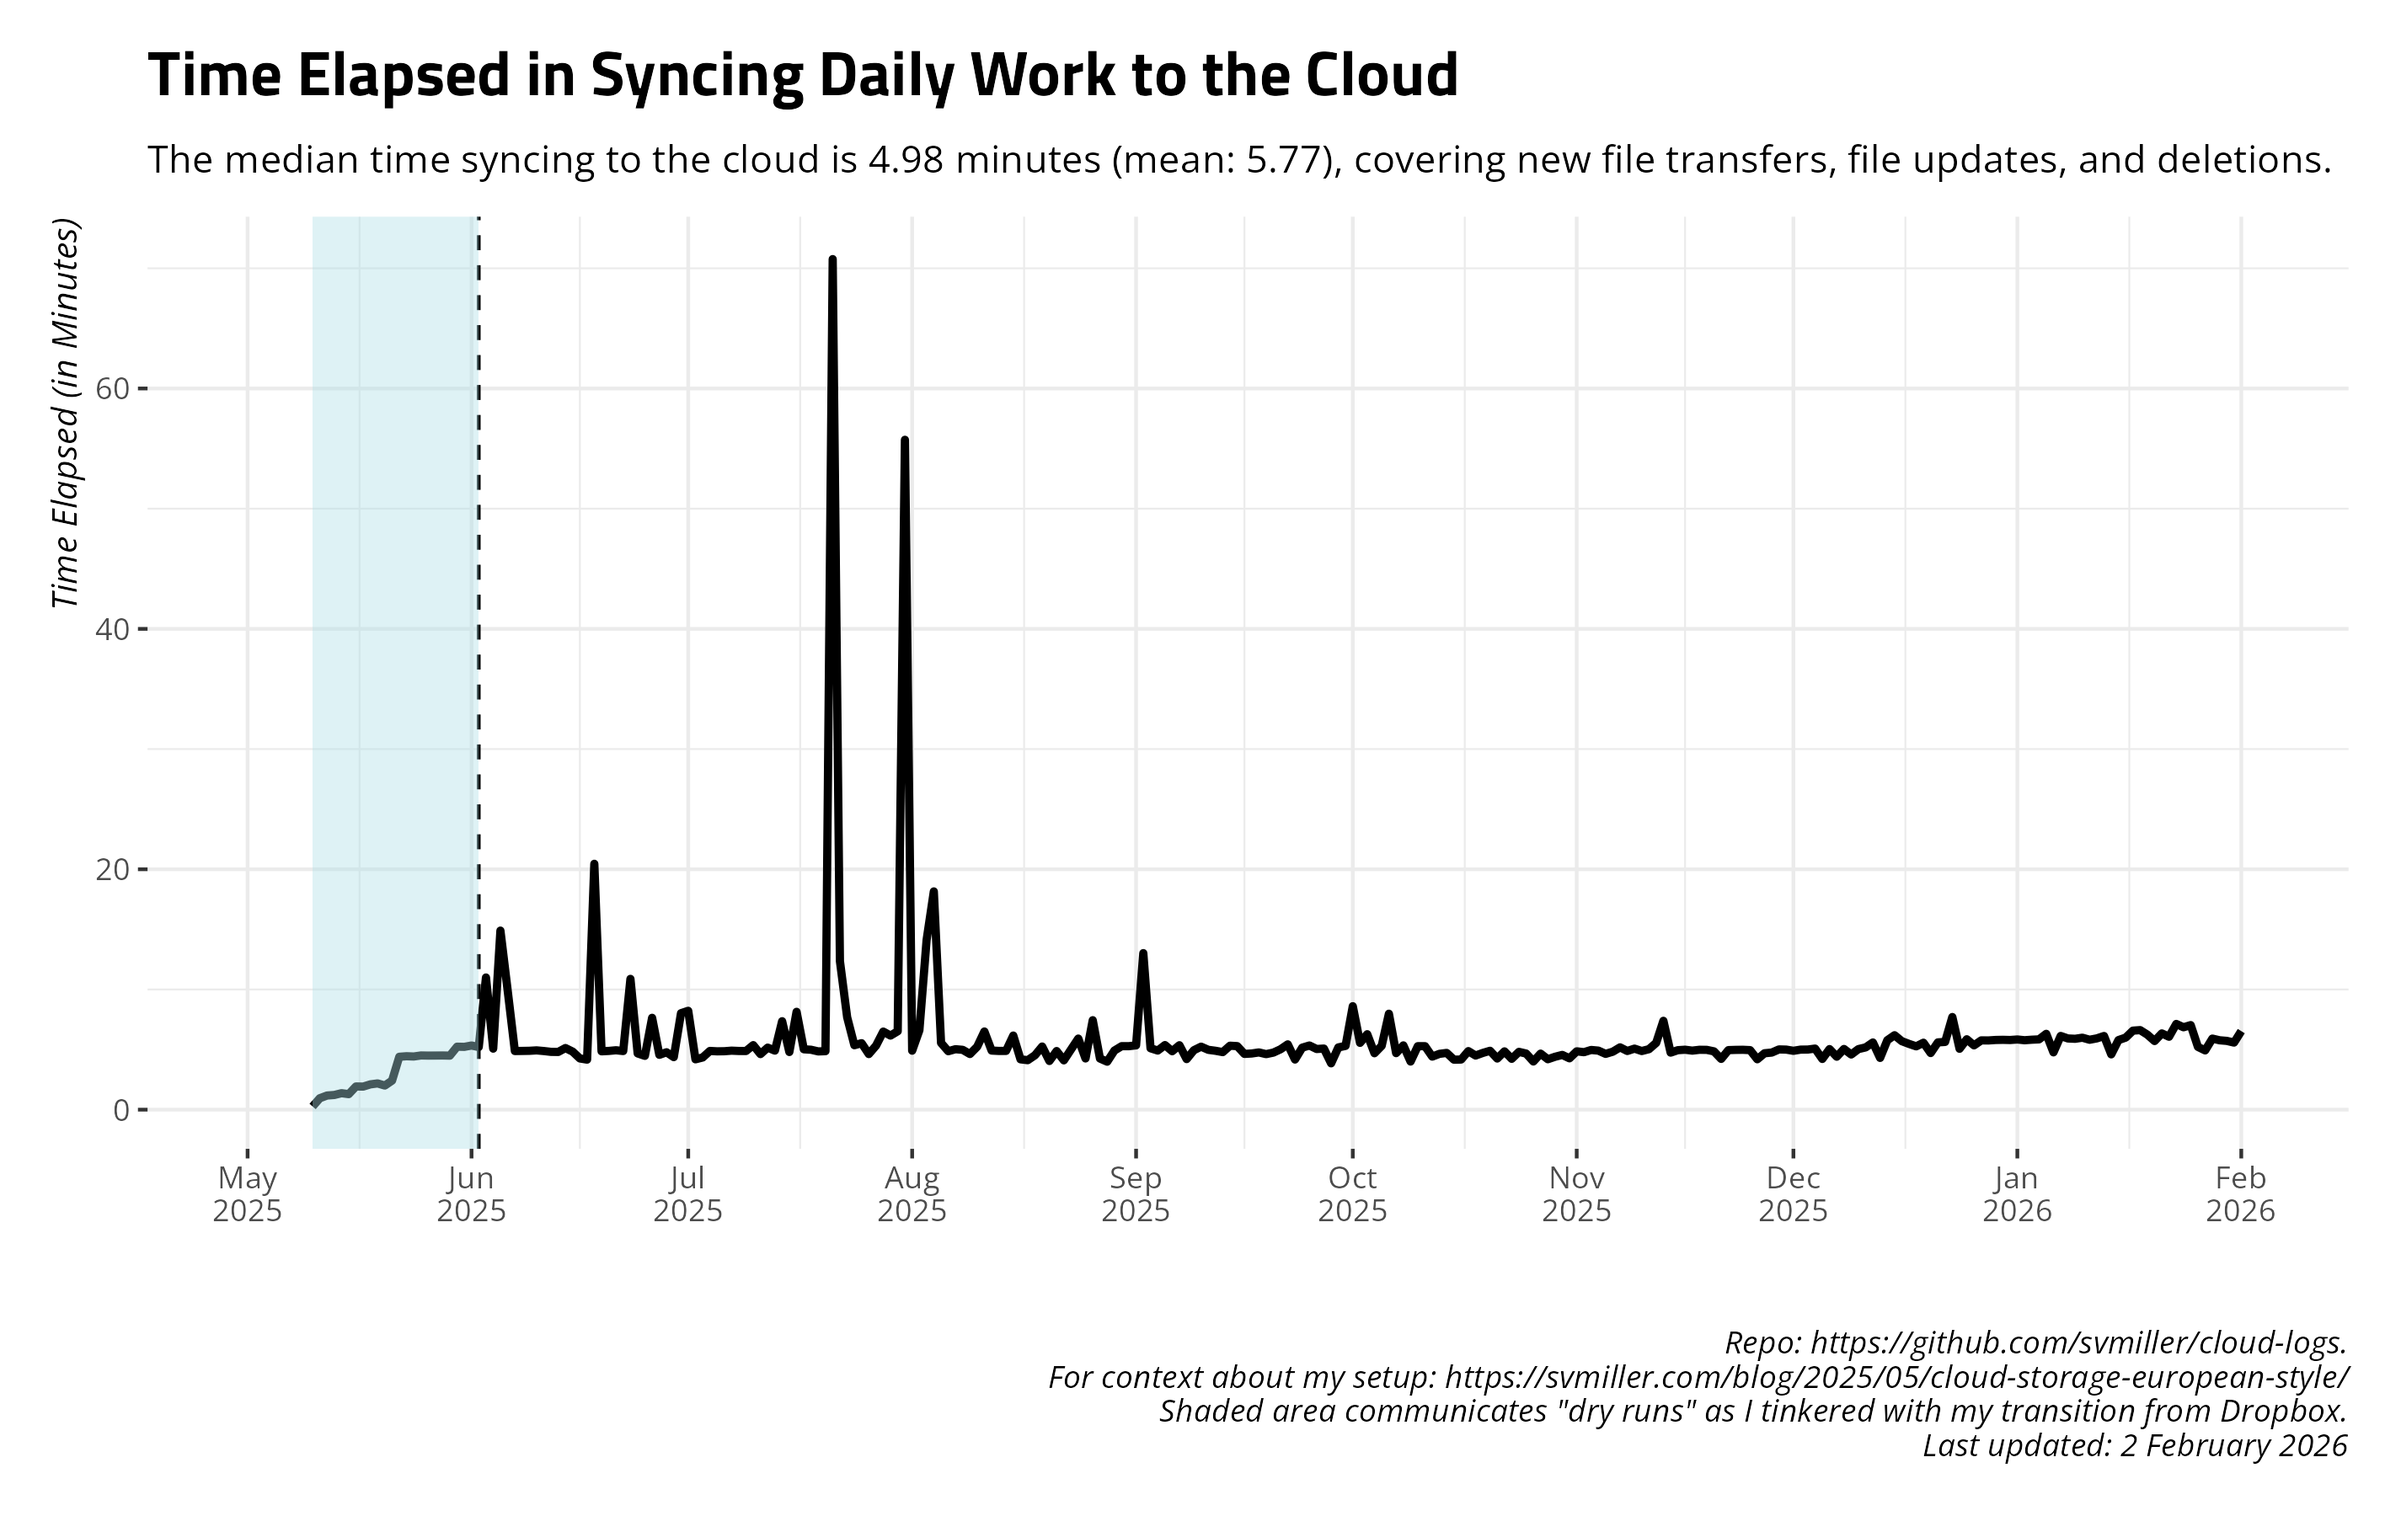
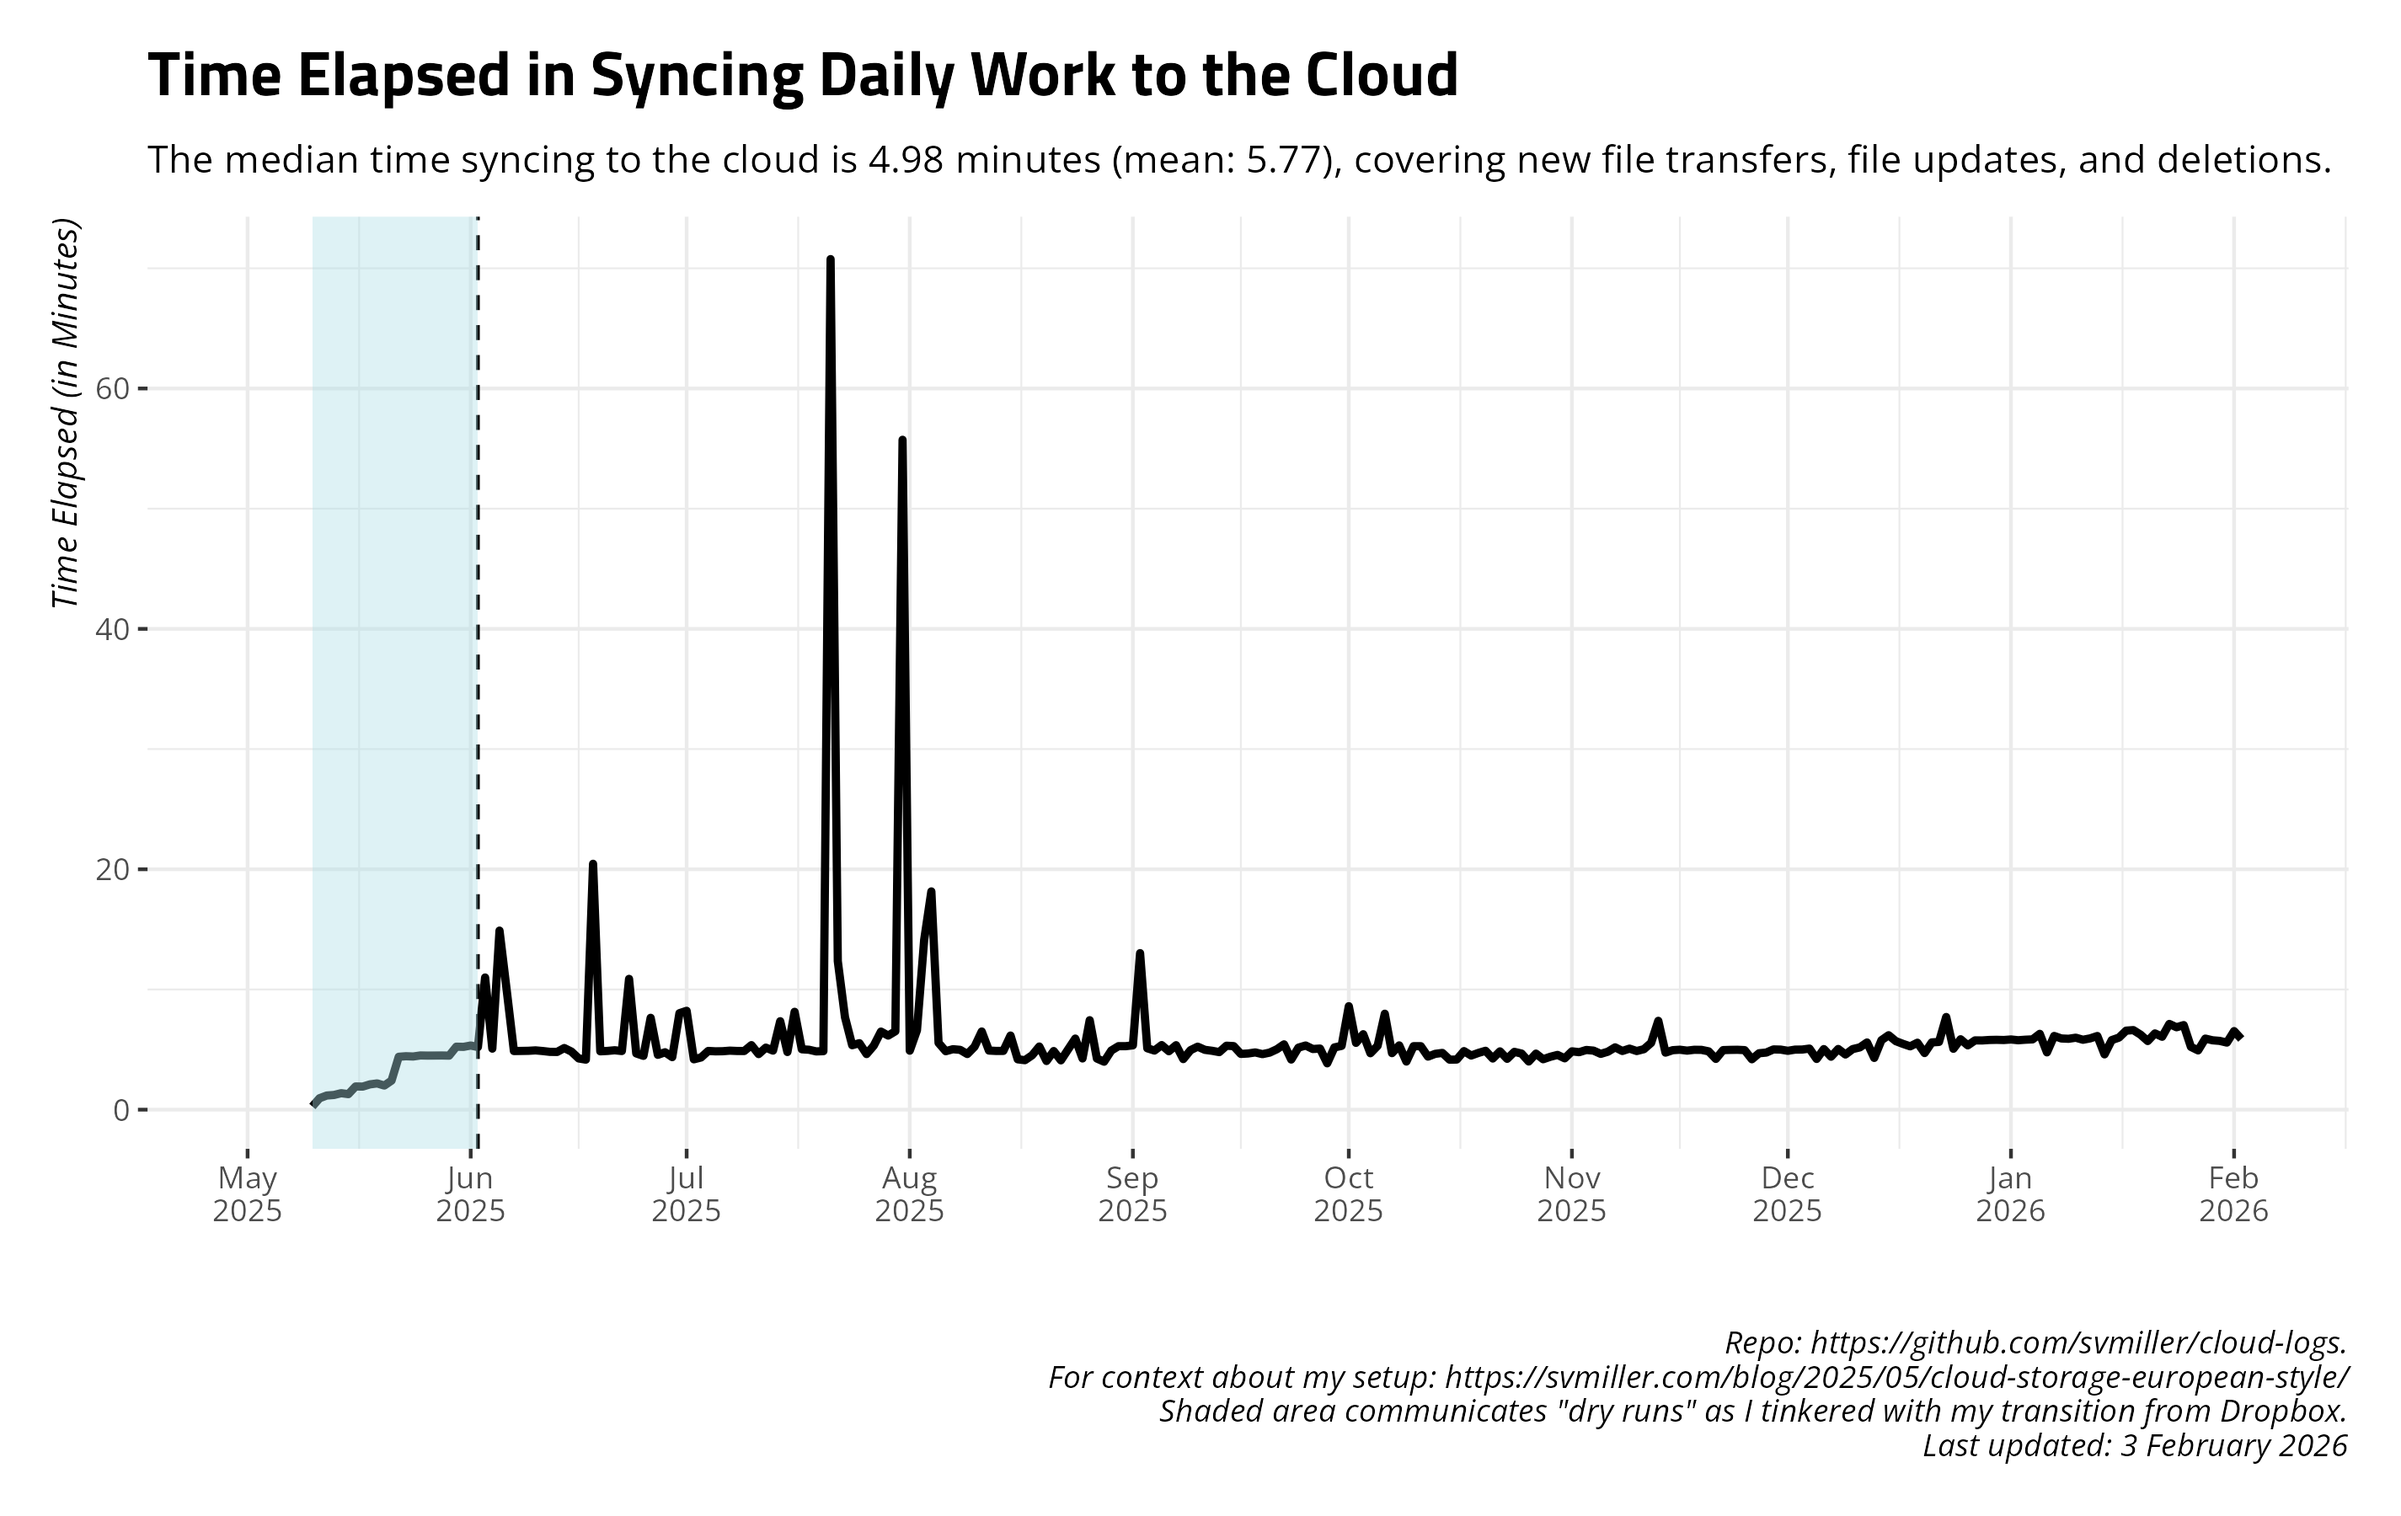
Date: 2026-02-03 09:00:21. Hi mom!

diff --git a/README.md b/README.md
@@ -27,17 +27,17 @@ and uploads to Github.
     #> # A tibble: 14 × 4
     #>    date       ftransfer stransfer   elapsed
     #>    <date>         <dbl> <chr>       <chr>  
-    #>  1 2026-01-19        22 306.049 KiB 6m14.4s
-    #>  2 2026-01-20         8 8.384 KiB   5m42.6s
-    #>  3 2026-01-21         0 <NA>        6m20.7s
-    #>  4 2026-01-22        19 1.012 MiB   6m3.9s 
-    #>  5 2026-01-23         0 <NA>        7m7.9s 
-    #>  6 2026-01-24         0 <NA>        6m51.3s
-    #>  7 2026-01-25        25 115.706 KiB 7m2.1s 
-    #>  8 2026-01-26        24 1.873 MiB   5m13.4s
-    #>  9 2026-01-27        39 3.662 MiB   4m55.8s
-    #> 10 2026-01-28         0 <NA>        5m54.8s
-    #> 11 2026-01-29        69 972.004 KiB 5m46.3s
-    #> 12 2026-01-30        53 449.655 KiB 5m43.3s
-    #> 13 2026-01-31        11 107.900 KiB 5m34.8s
-    #> 14 2026-02-01         1 52.319 KiB  6m32.1s
+    #>  1 2026-01-20         8 8.384 KiB   5m42.6s
+    #>  2 2026-01-21         0 <NA>        6m20.7s
+    #>  3 2026-01-22        19 1.012 MiB   6m3.9s 
+    #>  4 2026-01-23         0 <NA>        7m7.9s 
+    #>  5 2026-01-24         0 <NA>        6m51.3s
+    #>  6 2026-01-25        25 115.706 KiB 7m2.1s 
+    #>  7 2026-01-26        24 1.873 MiB   5m13.4s
+    #>  8 2026-01-27        39 3.662 MiB   4m55.8s
+    #>  9 2026-01-28         0 <NA>        5m54.8s
+    #> 10 2026-01-29        69 972.004 KiB 5m46.3s
+    #> 11 2026-01-30        53 449.655 KiB 5m43.3s
+    #> 12 2026-01-31        11 107.900 KiB 5m34.8s
+    #> 13 2026-02-01         1 52.319 KiB  6m32.1s
+    #> 14 2026-02-02        22 2.544 MiB   5m52.9s
